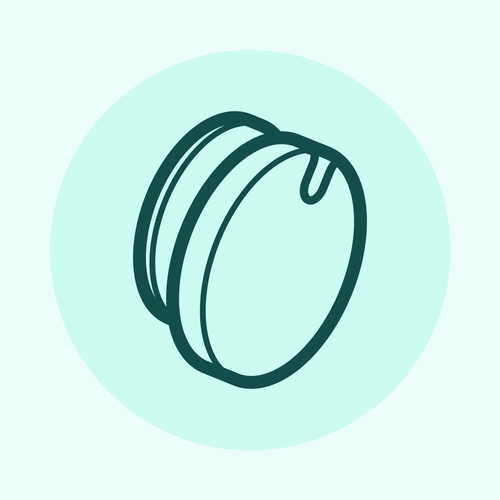
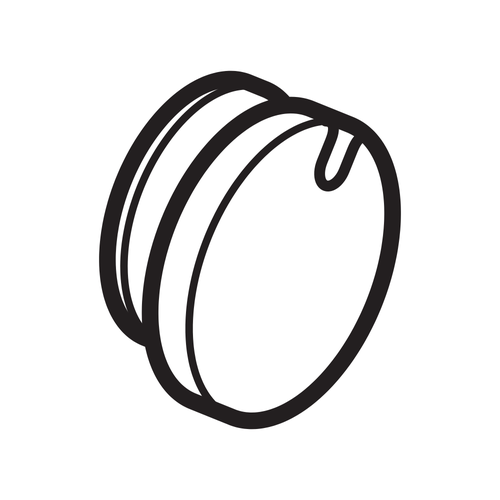
Versie 0.8.7: minimalistische look in grafiet

diff --git a/tools/brand-images.py b/tools/brand-images.py
@@ -1,10 +1,10 @@
 #!/usr/bin/env python3
 """
 Makes the app images (App Store) and the driver images ("Add device") from the SVG icons, in the
-app's fresh teal look. Run after changing an icon:  pip install cairosvg pillow && python3 tools/brand-images.py
+app's minimal look. Run after changing an icon:  pip install cairosvg pillow && python3 tools/brand-images.py
 
-  app images     teal gradient with soft radar rings, the app icon in white and the app name
-  driver images  a light mint background with the driver's icon in dark teal lines
+  app images     a flat graphite surface (the brand colour), the app icon in white, the name and one line
+  driver images  the driver's own line icon in its own colour on white, no colour added
 Sizes follow the Homey guidelines: app 250x175 / 500x350 / 1000x700, drivers 75x75 / 500x500 / 1000x1000.
 """
 import io, os
@@ -12,38 +12,25 @@ import cairosvg
 from PIL import Image, ImageDraw, ImageFont
 
 ROOT = os.path.join(os.path.dirname(os.path.abspath(__file__)), '..')
-BRAND = (13, 148, 136)        # #0D9488, also brandColor in .homeycompose/app.json
-BRAND_DARK = (15, 92, 86)     # bottom of the gradient
-MINT = (236, 253, 249)        # driver image background
-INK = (19, 78, 74)            # driver icon lines
-FONT = '/usr/share/fonts/truetype/dejavu/DejaVuSans-Bold.ttf'
+BRAND = (31, 35, 40)          # #1F2328, also brandColor in .homeycompose/app.json
+SUBTLE = (170, 177, 186)      # second line of text
+FONT = '/usr/share/fonts/truetype/dejavu/DejaVuSans.ttf'
 
 
-def svg_png(path, size, colour):
+def svg_png(path, size, colour=None):
     svg = open(path).read()
-    for old in ('#231f20', '#000000', '#000', '#54565a'):
-        svg = svg.replace(old, '#%02x%02x%02x' % colour)
+    if colour:
+        for old in ('#231f20', '#000000', '#000'):
+            svg = svg.replace(old, '#%02x%02x%02x' % colour)
     return Image.open(io.BytesIO(cairosvg.svg2png(bytestring=svg.encode(), output_width=size, output_height=size))).convert('RGBA')
 
 
 def app_image(w, h):
-    img = Image.new('RGB', (w, h))
-    px = img.load()
-    for y in range(h):                                   # soft diagonal gradient
-        for x in range(w):
-            t = (x / w * 0.35 + y / h * 0.65)
-            px[x, y] = tuple(int(BRAND[i] + (BRAND_DARK[i] - BRAND[i]) * t) for i in range(3))
-    rings = Image.new('RGBA', (w, h), (0, 0, 0, 0))
-    d = ImageDraw.Draw(rings)
-    cx, cy = int(w * 0.80), int(h * 1.05)
-    for i, r in enumerate((0.35, 0.58, 0.81, 1.04)):     # radar rings, very light
-        rr = int(h * r)
-        d.ellipse([cx - rr, cy - rr, cx + rr, cy + rr], outline=(255, 255, 255, 34 - i * 6), width=max(2, h // 120))
-    img = Image.alpha_composite(img.convert('RGBA'), rings)
-    icon = svg_png(os.path.join(ROOT, 'assets/icon.svg'), int(h * 0.56), (255, 255, 255))
-    img.alpha_composite(icon, (int(w * 0.07), (h - icon.height) // 2))
+    img = Image.new('RGBA', (w, h), BRAND + (255,))
+    icon = svg_png(os.path.join(ROOT, 'assets/icon.svg'), int(h * 0.46), (255, 255, 255))
+    img.alpha_composite(icon, (int(w * 0.10), (h - icon.height) // 2))
     d = ImageDraw.Draw(img)
-    x, room = int(w * 0.45), int(w * 0.50)                # text column, never wider than this
+    x, room = int(w * 0.50), int(w * 0.45)
 
     def fit(text, size):
         font = ImageFont.truetype(FONT, size)
@@ -51,19 +38,14 @@ def app_image(w, h):
             size -= 1
             font = ImageFont.truetype(FONT, size)
         return font
-    big, line1, line2 = fit('FP Zones', int(h * 0.15)), fit('Aqara FP300 & FP400', int(h * 0.06)), fit('zones · presence · distance', int(h * 0.06))
-    d.text((x, int(h * 0.30)), 'FP Zones', font=big, fill=(255, 255, 255))
-    d.text((x, int(h * 0.53)), 'Aqara FP300 & FP400', font=line1, fill=(255, 255, 255))
-    d.text((x, int(h * 0.63)), 'zones · presence · distance', font=line2, fill=(204, 251, 241))
+    d.text((x, int(h * 0.37)), 'FP Zones', font=fit('FP Zones', int(h * 0.13)), fill=(255, 255, 255))
+    d.text((x + int(h * 0.005), int(h * 0.56)), 'Aqara FP300 · FP400', font=fit('Aqara FP300 · FP400', int(h * 0.055)), fill=SUBTLE)
     return img.convert('RGB')
 
 
 def driver_image(icon_path, size):
-    img = Image.new('RGB', (size, size), MINT)
-    d = ImageDraw.Draw(img)
-    r = int(size * 0.40)                                  # soft disc behind the device
-    d.ellipse([size // 2 - r, size // 2 - r, size // 2 + r, size // 2 + r], fill=(204, 251, 241))
-    icon = svg_png(icon_path, int(size * 0.62), INK)
+    img = Image.new('RGB', (size, size), (255, 255, 255))
+    icon = svg_png(icon_path, int(size * 0.80))
     img.paste(icon, ((size - icon.width) // 2, (size - icon.height) // 2), icon)
     return img
 

diff --git a/CLAUDE.md b/CLAUDE.md
@@ -2,7 +2,7 @@
 
 Dit bestand is bedoeld voor een volgende Claude sessie (of een andere ontwikkelaar). Lees het helemaal voordat je iets verandert.
 
-Stand: versie **0.8.6**, gebouwd in één lange samenwerking met de gebruiker, oktober 2026.
+Stand: versie **0.8.7**, gebouwd in één lange samenwerking met de gebruiker, oktober 2026.
 
 **Eigenaar en auteur:** Robert Hertzer. Repository: https://github.com/robiebab/aqara-fp-zones. Licentie: MIT (zie `LICENSE`, inclusief de MIT vermelding van het FP400 project waarvan code is overgenomen). Houd die vermelding altijd intact.
 
@@ -39,9 +39,9 @@ De presence logica van de FP300 is een toestandsmachine. **Voeg hier geen tijdsr
 
 Bewust tijd (geen status beschikbaar of het IS een tijd): `TRACK_RESTART_MS` (FP300 stopt zijn meting zelf), batterij elke 4 uur (firmware 6542 stuurt hem niet zelf), de "leeg na" tijd per zone en de afwezigheidsvertraging (instellingen van de gebruiker), FP300 leervenster 10 min (advies Aqara, geen "klaar" signaal), FP400 leer-timeout 15 min (vangnet als er geen resultaat komt), FP400 abonnement op posities elke 10 s (protocol), FP400 licht opvragen (de FP400 meldt licht niet zelf; interval is een instelling), `FRESH_MS` (posities ouder dan 30 s tellen niet), "Eigen instelling" zetten 1 s na `onSettings` (Homey overschrijft instellingen die tijdens onSettings gezet worden), de live pagina's (1 s verversen) en UI animaties. Kandidaten die eerst een test met de sensor nodig hebben: FP400 personenaantal via rapportage in plaats van elke 30 s vragen; live pagina's via Homey realtime events in plaats van elke seconde vragen.
 
-## 00000. Uiterlijk (0.8.6)
+## 00000. Uiterlijk (0.8.7, keuze van de gebruiker)
 
-Merkkleur `#0D9488` (groenblauw). App icoon (`assets/icon.svg`): gestippelde zone met poppetje en radargolven eronder; lijnicoon zonder vulling of achtergrond, zoals de App Store richtlijnen vragen. App afbeeldingen: verloop in de merkkleur met lichte radarringen, wit icoon en tekst; driver afbeeldingen: lichte mint achtergrond met het driver icoon in donker groenblauw. Allemaal gemaakt met `tools/brand-images.py`; na het wijzigen van een icoon opnieuw draaien.
+Minimalistisch. Merkkleur grafiet `#1F2328`. App icoon (`assets/icon.svg`): gestippelde, afgeronde zone met een eenvoudig poppetje (hoofd en schouders), alleen lijnen. App afbeeldingen: effen grafiet vlak, wit icoon, "FP Zones" en "Aqara FP300 · FP400". Driver afbeeldingen: het eigen lijnicoon op wit, **geen kleur toevoegen** (de gebruiker wil dat zo). Alles met `tools/brand-images.py`. Het groenblauwe ontwerp van 0.8.6 is afgewezen.
 
 ## 0000. Namen bij "Apparaat toevoegen" (0.8.4)
 

diff --git a/README.md b/README.md
@@ -3,7 +3,7 @@
 Homey Pro app voor de Aqara **FP300** en **FP400** aanwezigheidssensoren via **Zigbee**, zonder Aqara hub. Met afstand, live posities, zones die je zelf inkleurt en alle sensorinstellingen in Homey.
 
 **Auteur:** Robert Hertzer
-**Versie:** 0.8.6
+**Versie:** 0.8.7
 **Vereist:** Homey Pro, firmware 12.2.0 of hoger, sensoren in Zigbee modus (omzetten in de Aqara Home app)
 
 ## Functies
